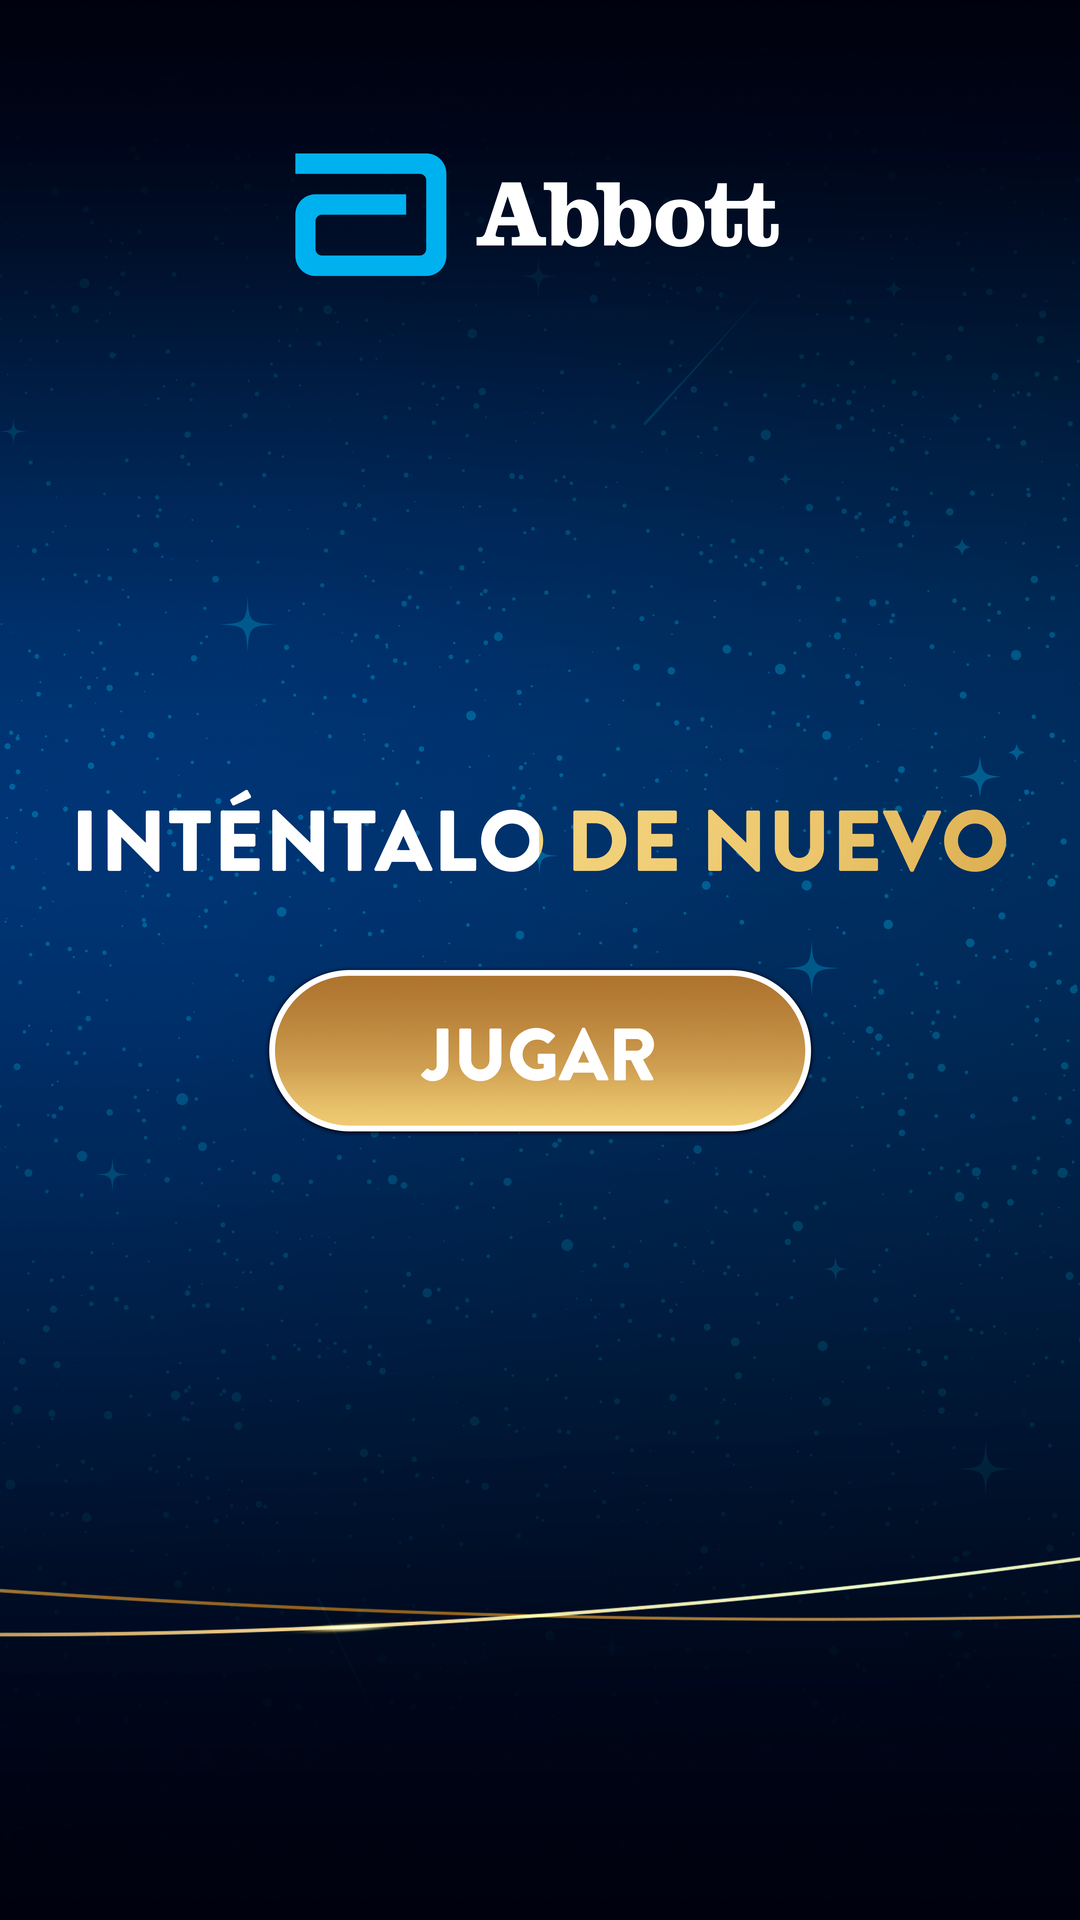
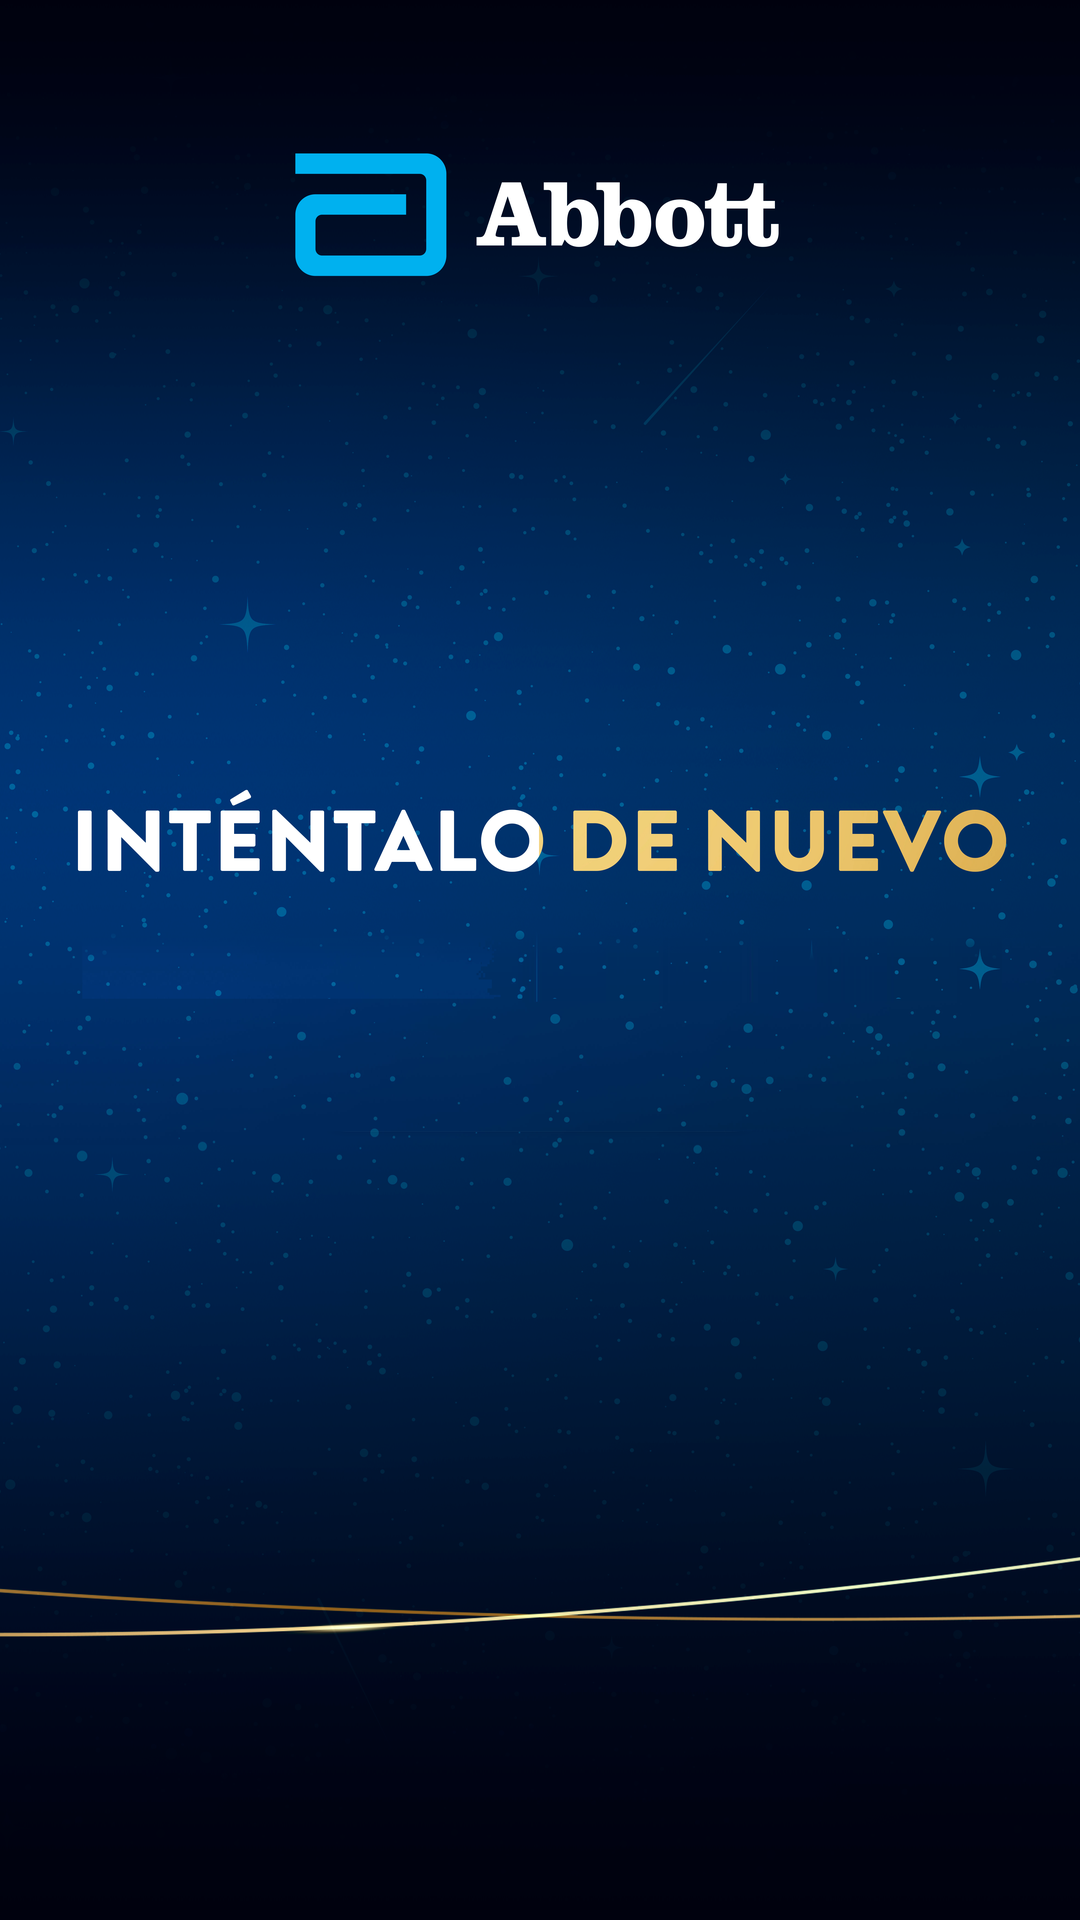
feat: remove play again button on game over, showing only message and auto-return timer to main menu

Changed region(s): [[0.2444, 0.5, 0.7639, 0.5938], [0.8861, 0.5, 0.9167, 0.5312]]

diff --git a/src/components/GameOverScreen.tsx b/src/components/GameOverScreen.tsx
@@ -1,15 +1,13 @@
 import React, { useState, useEffect } from 'react';
-import { Timer, Home } from 'lucide-react';
+import { Timer } from 'lucide-react';
 import { soundManager } from '../utils/audio';
 
 interface GameOverScreenProps {
-  onRetry: () => void;
   onHome: () => void;
   autoResetSeconds: number;
 }
 
 export const GameOverScreen: React.FC<GameOverScreenProps> = ({
-  onRetry,
   onHome,
   autoResetSeconds,
 }) => {
@@ -38,11 +36,6 @@ export const GameOverScreen: React.FC<GameOverScreenProps> = ({
     return () => clearInterval(interval);
   }, [secondsLeft, autoResetSeconds, onHome]);
 
-  const handleRetry = () => {
-    soundManager.playClick();
-    onRetry();
-  };
-
   const handleGoHome = () => {
     soundManager.playClick();
     onHome();
@@ -54,8 +47,12 @@ export const GameOverScreen: React.FC<GameOverScreenProps> = ({
       : 0;
 
   return (
-    <div className="relative w-full h-full overflow-hidden select-none">
-      {/* 1:1 Reference Background Graphic (1080x1920) */}
+    <div
+      onClick={handleGoHome}
+      className="relative w-full h-full overflow-hidden select-none cursor-pointer"
+      title="Toca para volver al menú principal"
+    >
+      {/* Clean 1:1 Background Graphic without JUGAR button (1080x1920) */}
       <img
         src="/assets/screens/bg_gameover.png"
         alt="Abbott Inténtalo de nuevo"
@@ -63,50 +60,37 @@ export const GameOverScreen: React.FC<GameOverScreenProps> = ({
         draggable={false}
       />
 
-      {/* Interactive Golden "JUGAR" Button Area (aligned with artwork button) */}
-      <div className="absolute left-1/2 -translate-x-1/2 top-[50.5%] w-[53.5%] max-w-[550px] h-[7.3%] z-20">
-        <button
-          onClick={handleRetry}
-          className="relative w-full h-full rounded-full cursor-pointer transition-transform duration-150 active:scale-95 group focus:outline-none"
-          aria-label="Jugar de nuevo"
-        >
-          {/* Subtle golden shimmer and touch highlight */}
-          <div className="absolute inset-0 rounded-full opacity-0 group-hover:opacity-100 group-active:opacity-100 transition-opacity duration-200 bg-white/15 shadow-[0_0_40px_rgba(243,216,140,0.7)]" />
-        </button>
-      </div>
+      {/* Prominent Kiosk Return Timer Badge (centered below INTÉNTALO DE NUEVO) */}
+      <div className="absolute left-1/2 -translate-x-1/2 top-[52%] w-[86%] max-w-[540px] flex flex-col items-center gap-4 z-20 text-center pointer-events-none">
+        {/* Glowing glass timer badge */}
+        <div className="w-full py-6 px-8 rounded-3xl bg-gradient-to-b from-[#001736]/90 via-[#00224d]/80 to-[#001736]/90 border-2 border-[#E5B25D]/60 backdrop-blur-md shadow-[0_0_40px_rgba(229,178,93,0.25)] flex flex-col items-center gap-4">
+          <div className="w-14 h-14 rounded-2xl bg-[#E5B25D]/20 border border-[#E5B25D]/50 flex items-center justify-center shadow-lg shadow-[#E5B25D]/20">
+            <Timer className="w-7 h-7 text-[#E5B25D] animate-pulse" />
+          </div>
 
-      {/* Auto Return Countdown & Return to Home Option (below JUGAR button) */}
-      {autoResetSeconds > 0 && (
-        <div className="absolute left-1/2 -translate-x-1/2 top-[61%] w-[84%] max-w-[460px] flex flex-col items-center gap-2.5 z-20 text-center">
-          {/* Countdown pill */}
-          <div className="flex items-center gap-2 px-5 py-2 rounded-full bg-[#001736]/85 border border-[#E5B25D]/40 backdrop-blur-md shadow-[0_4px_20px_rgba(0,0,0,0.4)]">
-            <Timer className="w-4 h-4 text-[#E5B25D] animate-pulse shrink-0" />
-            <span className="text-[clamp(13px,1.8vw,16px)] font-semibold text-white/90 tracking-wide">
-              Volviendo al inicio en{' '}
-              <strong className="text-[#F3D88C] font-mono text-base font-bold">
-                {secondsLeft}s
-              </strong>
+          <div className="flex flex-col items-center gap-1">
+            <span className="text-[clamp(13px,2cqw,18px)] font-bold text-white/70 uppercase tracking-widest">
+              Volviendo al menú principal en
+            </span>
+            <span className="font-mono font-black text-[clamp(36px,5.5cqw,54px)] text-[#F3D88C] tracking-wider drop-shadow-[0_0_12px_rgba(243,216,140,0.5)]">
+              {secondsLeft}s
             </span>
           </div>
 
-          {/* Progress bar */}
-          <div className="w-44 h-1.5 bg-white/10 rounded-full overflow-hidden border border-white/10">
+          {/* Animated Progress Bar */}
+          <div className="w-full max-w-[340px] h-2 bg-white/10 rounded-full overflow-hidden border border-white/10">
             <div
-              className="h-full bg-gradient-to-r from-[#00A3E0] to-[#E5B25D] transition-all duration-1000 ease-linear rounded-full shadow-[0_0_6px_#E5B25D]"
+              className="h-full bg-gradient-to-r from-[#00A3E0] to-[#E5B25D] transition-all duration-1000 ease-linear rounded-full shadow-[0_0_8px_#E5B25D]"
               style={{ width: `${progressPercentage}%` }}
             />
           </div>
-
-          {/* Manual immediate Return to Welcome Button */}
-          <button
-            onClick={handleGoHome}
-            className="mt-1 flex items-center gap-2 px-4 py-1.5 rounded-xl text-[clamp(12px,1.5vw,14px)] font-medium text-white/60 hover:text-white hover:bg-white/10 active:scale-95 transition-all cursor-pointer border border-transparent hover:border-white/20"
-          >
-            <Home className="w-4 h-4 text-[#00A3E0]" />
-            <span>Volver a bienvenida ahora</span>
-          </button>
         </div>
-      )}
+
+        {/* Touch anywhere hint */}
+        <span className="text-[clamp(12px,1.6cqw,16px)] text-white/50 tracking-widest uppercase mt-2 animate-pulse">
+          Toca la pantalla para volver ahora
+        </span>
+      </div>
     </div>
   );
 };

diff --git a/src/App.tsx b/src/App.tsx
@@ -121,7 +121,6 @@ export const App: React.FC = () => {
 
         {screen === 'GAMEOVER' && (
           <GameOverScreen
-            onRetry={startGame}
             onHome={goToHome}
             autoResetSeconds={settings.gameOverAutoResetSeconds}
           />
